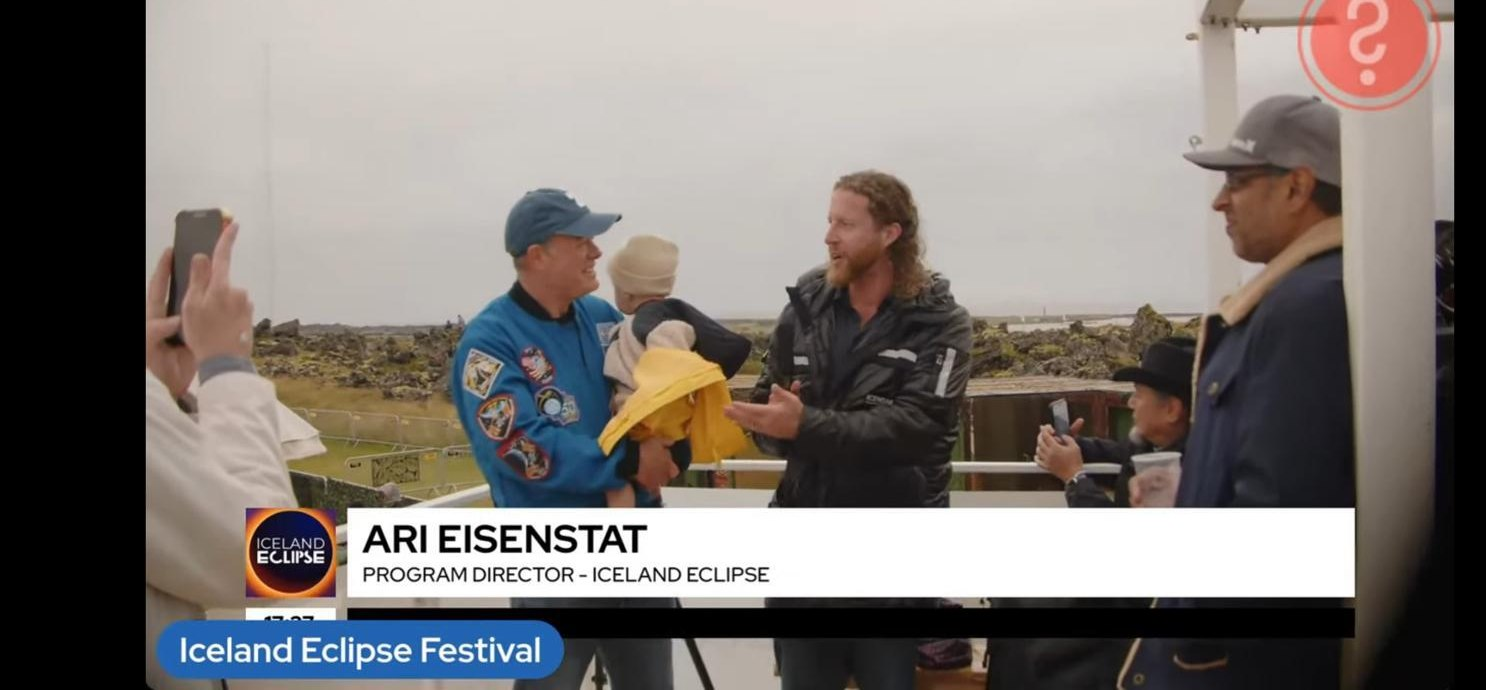
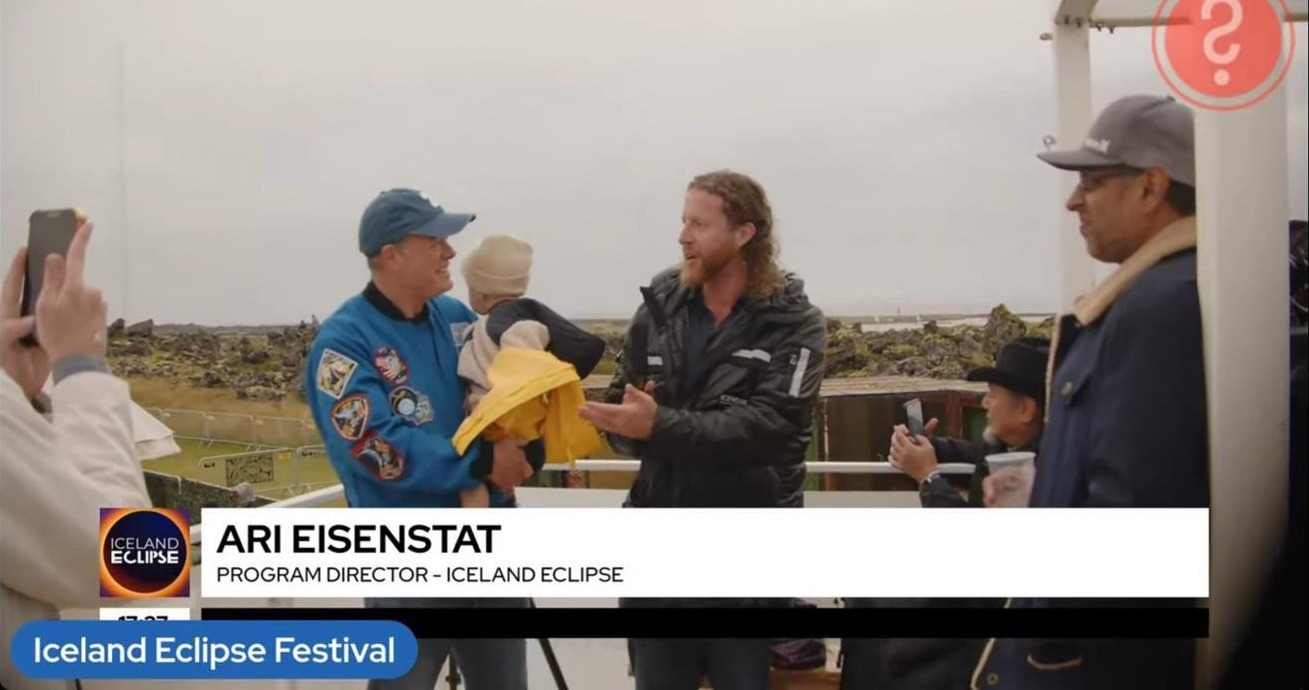
Press slide: add the SETI broadcast still as a fourth card
Trim the pillar bars off the capture and place it after "From the
stratosphere", at its own 16:9 aspect and bottom-aligned with the three
portrait cards, so the lower-third naming Ari Eisenstat stays readable.

diff --git a/index.html b/index.html
@@ -264,6 +264,8 @@
   .pcard{position:relative;margin:0;height:100%;min-width:0;border-radius:10px;overflow:hidden;background:#000;
     border:1px solid rgba(255,255,255,.11);box-shadow:0 16px 44px rgba(0,0,0,.55)}
   .pcard img,.pcard video{display:block;height:100%;width:auto;max-width:100%;object-fit:contain}
+  .pcard.wide{height:auto;align-self:flex-end;flex:0 1 clamp(190px,28%,420px)}
+  .pcard.wide img{width:100%;height:auto}
   .pcard figcaption{position:absolute;left:0;right:0;top:0;padding:.5em .7em .75em;
     font-family:var(--label);font-weight:700;font-size:clamp(.34rem,.52vw,.46rem);letter-spacing:.13em;
     text-transform:uppercase;color:#fff;background:linear-gradient(rgba(0,0,0,.72),transparent);pointer-events:none}
@@ -275,7 +277,7 @@
   @media (max-width:1024px) and (orientation:portrait){
     .presshead{grid-template-columns:1fr;gap:1rem}
     .presswall{flex-wrap:wrap;height:auto}
-    .pcard{height:auto;flex:1 1 44%}
+    .pcard,.pcard.wide{height:auto;flex:1 1 44%}
     .pcard img,.pcard video{height:auto;width:100%}
   }
   /* timeline */
@@ -571,6 +573,7 @@
         <figure class="pcard"><img src="assets/nyt-feature.jpg" alt="The New York Times feature: Ari Eisenstat and Mitch Morales pulled off an eclipse festival in Iceland"/><figcaption>The New York Times</figcaption></figure>
         <figure class="pcard"><video src="assets/cnn-eclipse.mp4" poster="assets/cnn-eclipse-poster.jpg" loop playsinline preload="metadata" controls aria-label="CNN coverage: Total Eclipse Passes Over Iceland"></video><figcaption>CNN · broadcast</figcaption></figure>
         <figure class="pcard"><img src="assets/press-dorothy.jpg" alt="Totality captured from the stratosphere"/><figcaption>From the stratosphere</figcaption></figure>
+        <figure class="pcard wide"><img src="assets/press-seti.jpg" alt="Ari Eisenstat, Program Director of Iceland Eclipse, on the live SETI Institute broadcast"/><figcaption>SETI Institute &middot; live broadcast</figcaption></figure>
       </div>
     </div>
     <div class="sfoot"><span>Iceland Eclipse 2026 · Recap</span><span>10</span></div>

diff --git a/sources/ben-feedback-2026-09-04.md b/sources/ben-feedback-2026-09-04.md
@@ -116,3 +116,8 @@ Fixed; footer text now renders once per slide.
 - **Google Analytics attempt failed.** See O2 in `ben-punch-list.md`. The signed-in account
   has no Iceland Eclipse property.
 - **Blocked Instagram message request dropped** from the punch list at Lee's instruction.
+- **SETI Institute broadcast still added to In the Press** as a fourth card, after "From
+  the stratosphere". It is a 16:9 broadcast frame next to three portrait cards, so it
+  cannot be full height without cropping the lower-third that names Ari Eisenstat. Instead
+  it sits at its natural aspect, bottom-aligned with the other three, and the black pillar
+  bars from the original screen capture were trimmed off (1486x690 to 1309x690).
